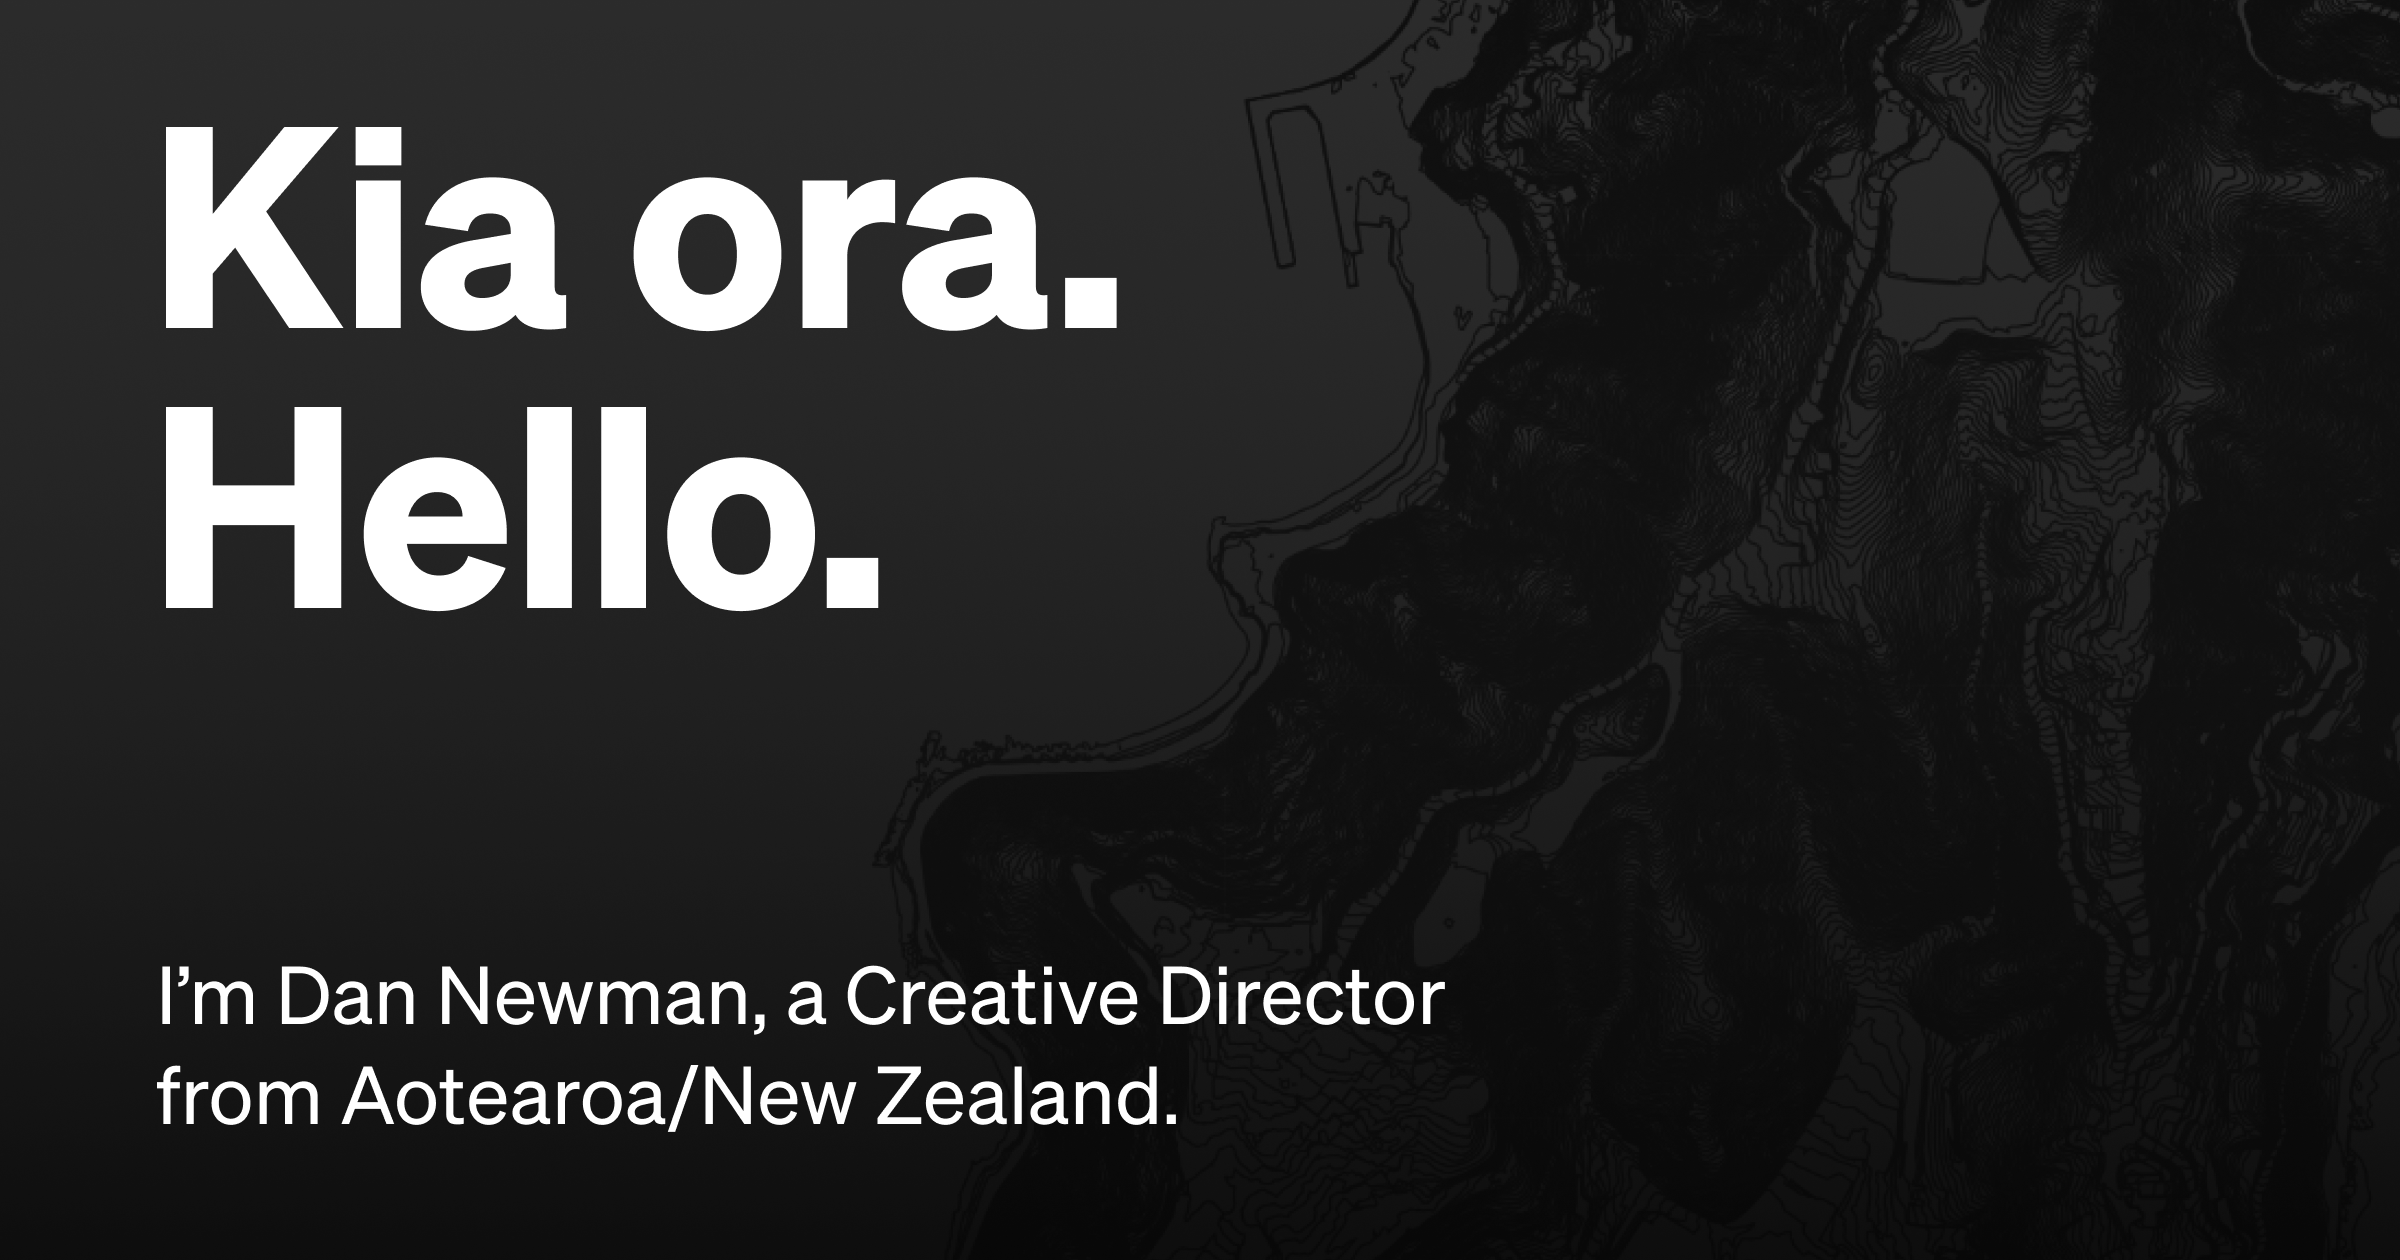
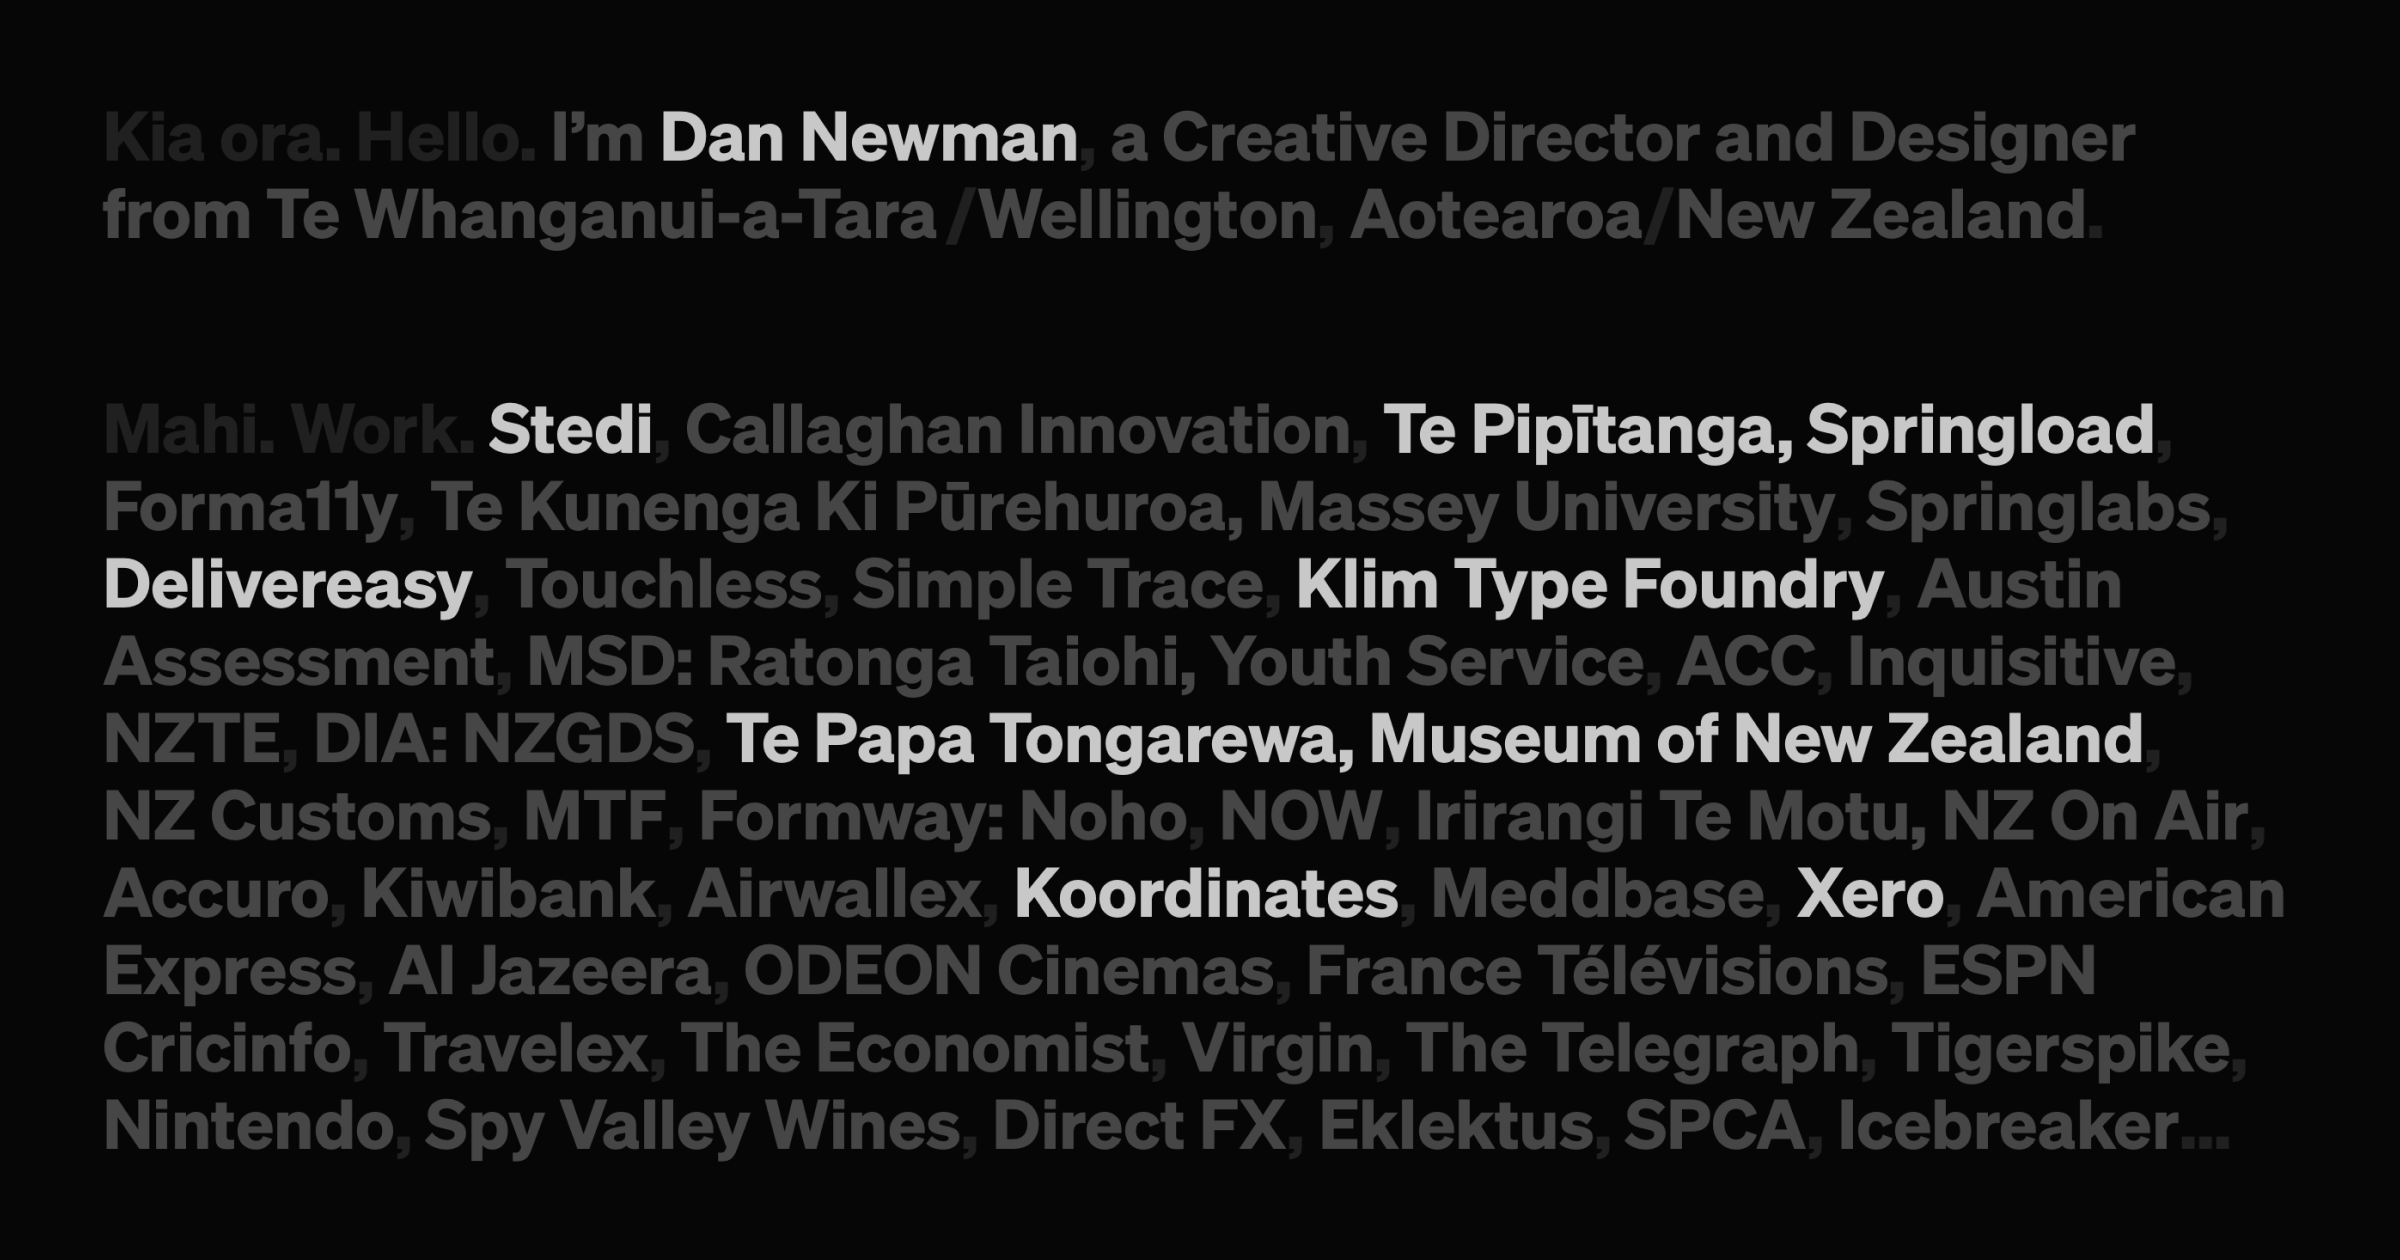
feat: neue homepage

diff --git a/index.html b/index.html
@@ -6,7 +6,7 @@
 
 		<title>Dan Newman</title>
 
-		<meta name="description" content="Kia ora. Hello. I’m Dan Newman, a Creative Director, Design Leader, and Designer from Te Whanganui-a-Tara/Wellington, Aotearoa/New Zealand." />
+		<meta name="description" content="Kia ora. Hello. I’m Dan Newman, a Creative Director and Designer from Te Whanganui-a-Tara/Wellington, Aotearoa/New Zealand." />
 		<meta name="author" content="Dan Newman" />
 		<meta name="copyright" content="Copyright Dan Newman, 2022" />
 
@@ -29,7 +29,7 @@
 		<meta name="apple-mobile-web-app-status-bar-style" content="black" />
 
 		<meta property="og:title" content="@danserif" />
-		<meta property="og:description" content="Kia ora. Hello. I’m Dan Newman, a Creative Director, Design Leader, and Designer from Te Whanganui-a-Tara/Wellington, Aotearoa/New Zealand." />
+		<meta property="og:description" content="Kia ora. Hello. I’m Dan Newman, a Creative Director and Designer from Te Whanganui-a-Tara/Wellington, Aotearoa/New Zealand." />
 		<meta property="og:image" content="https://dan.newman.is/filing/images/opengraph-image.png" />
 		<meta property="og:image:alt" content="Dan Newman" />
 		<meta property="og:image:width" content="1200" />
@@ -38,7 +38,7 @@
 
 		<meta name="twitter:card" content="summary_large_image" />
 		<meta name="twitter:title" content="@danserif" />
-		<meta name="twitter:description" content="Kia ora. Hello. I’m Dan Newman, a Creative Director, Design Leader, and Designer from Te Whanganui-a-Tara/Wellington, Aotearoa/New Zealand." />
+		<meta name="twitter:description" content="Kia ora. Hello. I’m Dan Newman, a Creative Director and Designer from Te Whanganui-a-Tara/Wellington, Aotearoa/New Zealand." />
 		<meta name="twitter:image" content="https://dan.newman.is/filing/images/opengraph-image.png" />
 		<meta name="twitter:site" content="@danserif" />
 
@@ -59,14 +59,27 @@
 			</nav>
 
 			<header>
-				<h1 id="starting">Kia ora. Hello.</h1>
-				<h2>I’m Dan Newman, a Creative Director, Design Leader, and Designer from Te Whanganui-a-Tara/Wellington, Aotearoa/New Zealand.</h2>
-				<p class="employable">
-					I’m looking for something new to do! If you know of anyone needing an experienced set of design eyes and hands, or would just like to chat, send me an
-					<a class="email" href="mailto:dan@newman.is?subject=Dear Dan, we’d love to offer you a new job!" onclick="fathom.trackGoal('F5DO90M8', 0);" title="Email me your excellent offers!">email</a>. I’ve led, hired,
-					and managed growing design teams in several startups and digital agencies, across timezones, in offices, and remotely, all while continuing to work directly on projects. I’d love to keep doing that with fun,
-					genuine, creative people working for an organisation with a real purpose.
-				</p>
+				<h1 id="starting">
+					<span class="opacity">Kia ora. Hello.</span> I’m <a href="/#danserif">Dan Newman</a><span class="opacity">,</span> a Creative Director and Designer<br class="hide" />
+					from Te Whanganui-a-Tara<span class="opacity">/</span>Wellington<span class="opacity">,</span> Aotearoa<span class="opacity">/</span>New Zealand<span class="opacity">.</span>
+				</h1>
+				<h2>
+					<span class="opacity">Mahi. Work.</span> <a href="/archiving/stedi/">Stedi</a><span class="opacity">,</span> Callaghan Innovation<span class="opacity">,</span>
+					<a href="/archiving/springload/">Te Pipītanga, Springload</a><span class="opacity">,</span> Forma11y<span class="opacity">,</span> Te Kunenga Ki Pūrehuroa, Massey University<span class="opacity">,</span>
+					Springlabs<span class="opacity">,</span> <a href="/archiving/delivereasy/">Delivereasy</a><span class="opacity">,</span> Touchless<span class="opacity">,</span> Simple Trace<span class="opacity">,</span>
+					<a href="/archiving/klim-type-foundry/">Klim Type Foundry</a><span class="opacity">,</span> Austin Assessment<span class="opacity">,</span> MSD: Ratonga Taiohi, Youth Service<span class="opacity">,</span>
+					ACC<span class="opacity">,</span> Inquisitive<span class="opacity">,</span> NZTE<span class="opacity">,</span> DIA: NZGDS<span class="opacity">,</span>
+					<a href="/archiving/te-papa/">Te Papa Tongarewa, Museum of New Zealand</a><span class="opacity">,</span> <br class="hide" />
+					NZ Customs<span class="opacity">,</span> MTF<span class="opacity">,</span> Formway: Noho<span class="opacity">,</span> NOW<span class="opacity">,</span> Irirangi Te Motu, NZ On Air<span class="opacity">,</span>
+					Accuro<span class="opacity">,</span> Kiwibank<span class="opacity">,</span> Airwallex<span class="opacity">,</span> <a href="/archiving/#koordinates">Koordinates</a><span class="opacity">,</span> Meddbase<span
+						class="opacity"
+						>,</span
+					>
+					<a href="/archiving/#xero">Xero</a><span class="opacity">,</span> American Express<span class="opacity">,</span> Al Jazeera<span class="opacity">,</span> ODEON Cinemas<span class="opacity">,</span> France
+					Télévisions<span class="opacity">,</span> ESPN Cricinfo<span class="opacity">,</span> Travelex<span class="opacity">,</span> The Economist<span class="opacity">,</span> Virgin<span class="opacity">,</span> The
+					Telegraph<span class="opacity">,</span> Tigerspike<span class="opacity">,</span> Nintendo<span class="opacity">,</span> Spy Valley Wines<span class="opacity">,</span> Direct FX<span class="opacity">,</span>
+					Eklektus<span class="opacity">,</span> SPCA<span class="opacity">,</span> Icebreaker<span class="opacity">...</span>
+				</h2>
 				<p class="arrow"><a href="/#archiving">&darr;</a></p>
 			</header>
 
@@ -171,7 +184,7 @@
 				</section>
 
 				<!-- ABOUT -->
-				<section class="images">
+				<section id="danserif" class="images">
 					<h3 id="employable">About</h3>
 					<div class="row">
 						<div class="column-60">

diff --git a/filing/css/styles.css b/filing/css/styles.css
@@ -456,11 +456,10 @@ td {
 
 */
 
-.home .container,
-.about .container {
+.home .container {
 	background-image:/* url("/filing/images/wellington-location.png"),*/ url("/filing/images/wellington-map.jpg");
 	background-repeat: no-repeat;
-	background-position: right bottom;
+	background-position: left top;
 	background-size: contain;
 	max-width: 100%;
 }
@@ -480,6 +479,7 @@ p {
 nav a {
 	font-size: 16px;
 	text-decoration: none;
+	opacity: 0.8;
 }
 
 nav a:hover {
@@ -497,17 +497,14 @@ nav a:hover {
 	margin-right: 10%;
 }
 
-header {
-	max-width: 1220px;
-	padding-top: 60vh;
-}
-
 .home header {
+	max-width: 1620px;
+	padding-top: 35vh;
 	padding-bottom: 100px;
 }
 
-.work header,
-.about header {
+.work header {
+	max-width: 1220px;
 	padding-top: 50vh;
 }
 
@@ -522,14 +519,35 @@ header {
 
 h1 {
 	font-weight: 700;
-	font-size: 160px;
-	line-height: 160px;
+	font-size: 50px;
+	line-height: 55px;
 	padding: 20px 0 20px 0;
 	margin: 0;
 }
-.work h1,
-.about h1 {
+
+.home h1,
+.home h2 {
+	font-weight: 700;
+	font-size: 50px;
+	line-height: 55px;
+	padding-bottom: 80px;
+	color: #464646;
+}
+
+.home h1 a,
+.home h2 a {
+	text-decoration: none;
+	opacity: 0.9;
+}
+
+.home h1 a:hover,
+.home h2 a:hover {
+	opacity: 0.4;
+}
+
+.work h1 {
 	font-size: 140px;
+	line-height: 150px;
 }
 
 h2 {
@@ -697,14 +715,18 @@ footer {
 	}
 }
 @media only screen and (max-width: 1680px) {
-	header {
-		padding-top: 40vh;
-	}
 	.home header {
+		padding-top: 20vh;
 		padding-bottom: 40px;
+		max-width: 1280px;
 	}
 	.work header {
 		padding-top: 55vh;
+	}
+	.home h1,
+	.home h2 {
+		font-size: 40px;
+		line-height: 45px;
 	}
 	.images {
 		max-width: 1540px;
@@ -716,9 +738,12 @@ footer {
 		flex: 35%;
 	}
 }
-@media only screen and (max-width: 1460px) {
+@media only screen and (max-width: 1380px) {
 	header {
 		padding-top: 30vh;
+	}
+	.home header .hide {
+		display: none;
 	}
 	.work h1 {
 		font-size: 100px;
@@ -736,17 +761,33 @@ footer {
 	.URL {
 		margin-right: 25%;
 	}
-	header {
-		padding-top: 35vh;
+	.home header {
+		padding-top: 15vh;
 	}
 	.work header {
 		padding-top: 50vh;
 	}
-	h1 {
-		font-size: 70px;
-		line-height: 74px;
+	.home h1,
+	.home h2 {
+		font-size: 20px;
+		line-height: 26px;
+		max-width: 900px;
+		padding-bottom: 20px;
 	}
-	.work header h1 {
+	.home h2 {
+		font-weight: 400;
+		font-size: inherit;
+		line-height: inherit;
+	}
+	.home header .opacity {
+		opacity: 0.6;
+	}
+	.home h1 a,
+	.home h2 a {
+		text-decoration: underline;
+	}
+
+	.work h1 {
 		font-size: 38px;
 		line-height: 48px;
 		padding-bottom: 0px;
